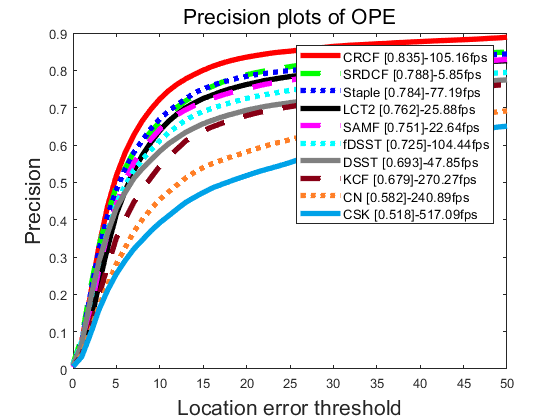
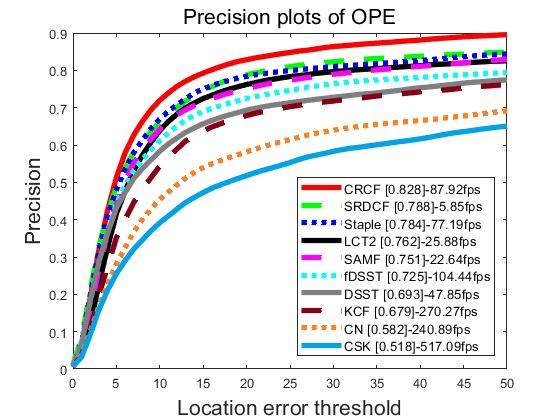
update precision plot and success plot

Changed region(s): [[0.1214, 0.0619, 0.9107, 0.8976], [0.8804, 0.4333, 0.9107, 0.5262]]

diff --git a/implementation/CRCF_tracker.m b/implementation/CRCF_tracker.m
@@ -174,25 +174,27 @@ for frame = 1:num_frames
         end
         
         if params.use_scale_filter
-            %create a new feature projection matrix
-            [xs_pca, xs_npca] = get_scale_subwindow(im,pos,base_target_sz,currentScaleFactor*scaleSizeFactors,scale_model_sz);
+            if ~unreliable_flag
+                %create a new feature projection matrix
+                [xs_pca, xs_npca] = get_scale_subwindow(im,pos,base_target_sz,currentScaleFactor*scaleSizeFactors,scale_model_sz);
 
-            xs = feature_projection_scale(xs_npca,xs_pca,scale_basis,scale_window);
-            xsf = fft(xs,[],2);
+                xs = feature_projection_scale(xs_npca,xs_pca,scale_basis,scale_window);
+                xsf = fft(xs,[],2);
 
-            scale_responsef = sum(sf_num .* xsf, 1) ./ (sf_den + scale_lambda);
+                scale_responsef = sum(sf_num .* xsf, 1) ./ (sf_den + scale_lambda);
 
-            interp_scale_response = ifft( resizeDFT(scale_responsef, nScalesInterp), 'symmetric');
+                interp_scale_response = ifft( resizeDFT(scale_responsef, nScalesInterp), 'symmetric');
 
-            recovered_scale_index = find(interp_scale_response == max(interp_scale_response(:)), 1);
+                recovered_scale_index = find(interp_scale_response == max(interp_scale_response(:)), 1);
 
-            %set the scale
-            currentScaleFactor = currentScaleFactor * interpScaleFactors(recovered_scale_index);
-            %adjust to make sure we are not to large or to small
-            if currentScaleFactor < min_scale_factor
-                currentScaleFactor = min_scale_factor;
-            elseif currentScaleFactor > max_scale_factor
-                currentScaleFactor = max_scale_factor;
+                %set the scale
+                currentScaleFactor = currentScaleFactor * interpScaleFactors(recovered_scale_index);
+                %adjust to make sure we are not to large or to small
+                if currentScaleFactor < min_scale_factor
+                    currentScaleFactor = min_scale_factor;
+                elseif currentScaleFactor > max_scale_factor
+                    currentScaleFactor = max_scale_factor;
+                end
             end
         end
 
@@ -308,7 +310,7 @@ for frame = 1:num_frames
     end
     
     if params.use_scale_filter
-        if true
+        if ~unreliable_flag
             %create a new feature projection matrix
             [xs_pca, xs_npca] = get_scale_subwindow(im, pos, base_target_sz, currentScaleFactor*scaleSizeFactors, scale_model_sz);
 
